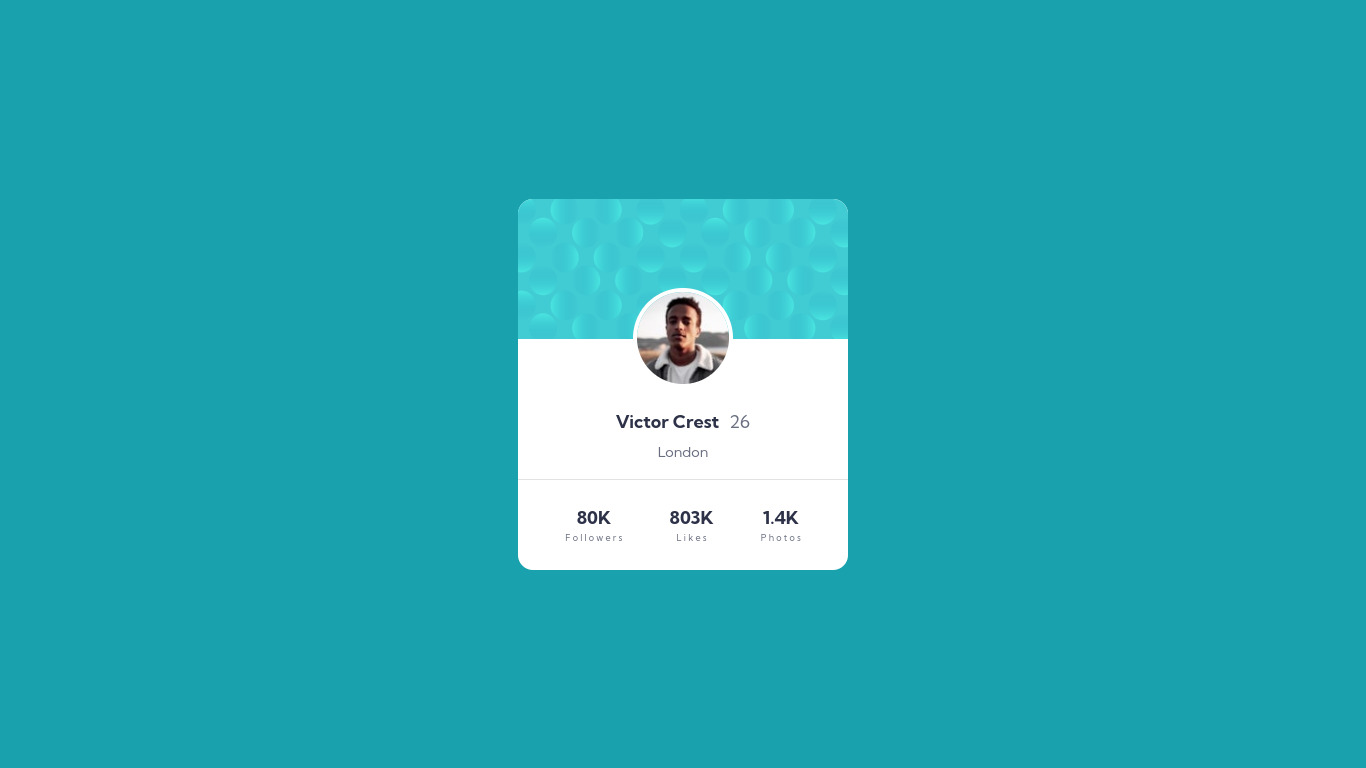
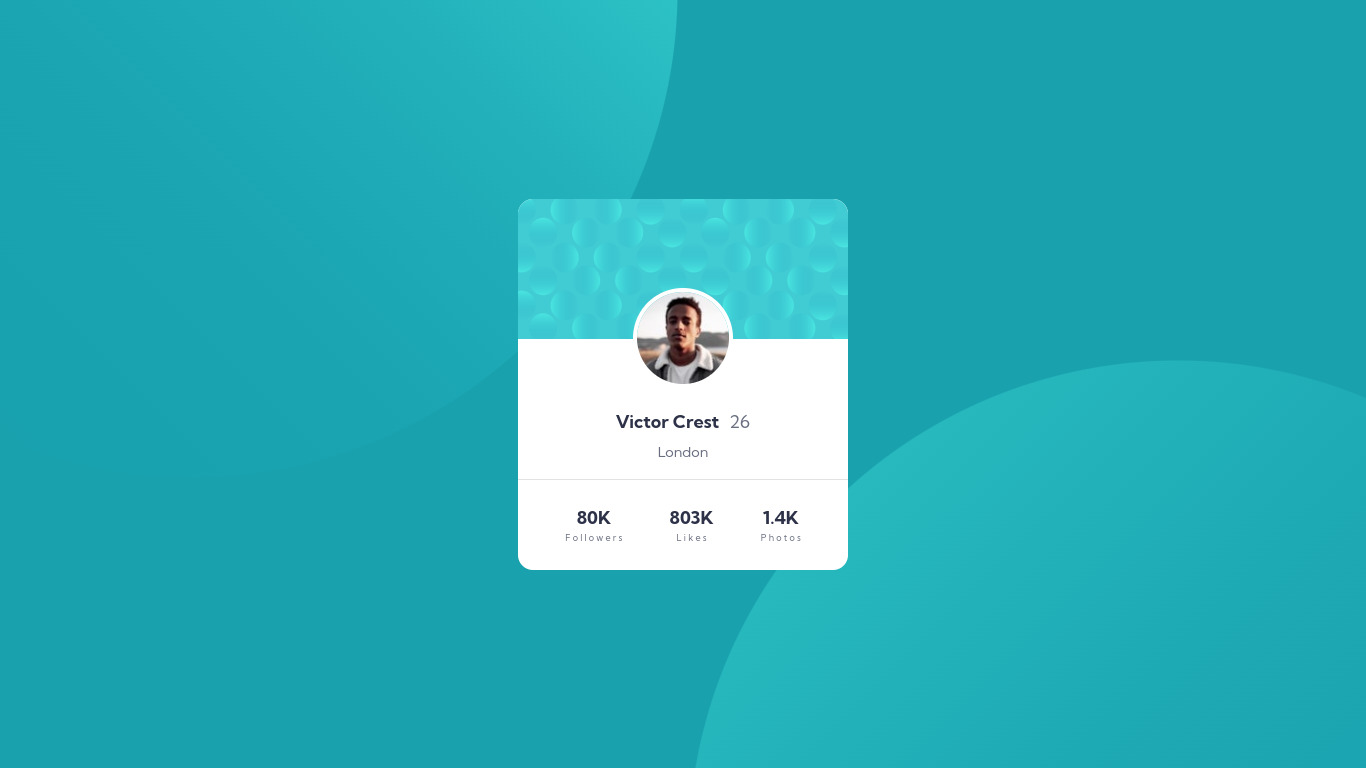
added background image

Changed region(s): [[0.3997, 0.0, 0.5227, 0.1562]]

diff --git a/style.css b/style.css
@@ -20,6 +20,10 @@ body {
     font-family: 'Kumbh Sans', sans-serif; 
     background-color: var(--dark-cyan);
     min-height: 100vh;
+    background-image: url("./images/bg-pattern-top.svg"),
+        url("./images/bg-pattern-bottom.svg");
+    background-repeat: no-repeat, no-repeat;
+    background-position: top -550px left -780px, bottom -630px right -780px;
 }
 
 .flex-center {
@@ -113,4 +117,12 @@ hr {
     font-size: .5rem;
     font-weight: 400;
     color: var(--dark-grayish-blue);
+}
+
+
+
+@media (min-width: 900px) {
+    body {
+        background-position: top -500px left -300px, bottom -570px right -300px;
+    }
 }
